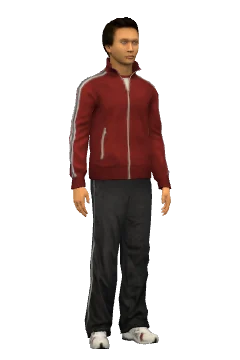
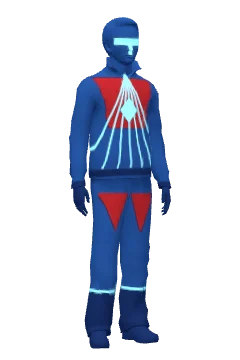
feat(hero): ảnh xem trước sảnh là hai siêu anh hùng (D-048)
Entire-Checkpoint: 01M7FCKMG6F9S8G4BZ6Z213CKW

Changed region(s): [[0.2917, 0.0306, 0.7292, 0.9778]]

diff --git a/tests/stroll-unit/glb.test.ts b/tests/stroll-unit/glb.test.ts
@@ -67,6 +67,8 @@ test('ảnh xem trước hai nhân vật ở sảnh (npm run gen:thumbs): có, l
     assert.ok(b.length <= 20000, `${f}: ${b.length} byte`);
     assert.ok(html.includes('people/' + f), `index.html thiếu people/${f}`);
   }
+  const js = readFileSync(join(DIR, '..', '..', 'scripts', 'people', 'thumbs.mjs'), 'utf8');
+  for (const m of ['people/hero-m.glb', 'people/hero-f.glb']) assert.ok(js.includes(m), `thumbs.mjs phải vẽ từ ${m} (D-048)`);
 });
 
 /* ===== Hai siêu anh hùng (D-048): public/people/hero-m.glb, hero-f.glb, sinh bằng scripts/people/hero.py từ p0 / p3 ===== */
